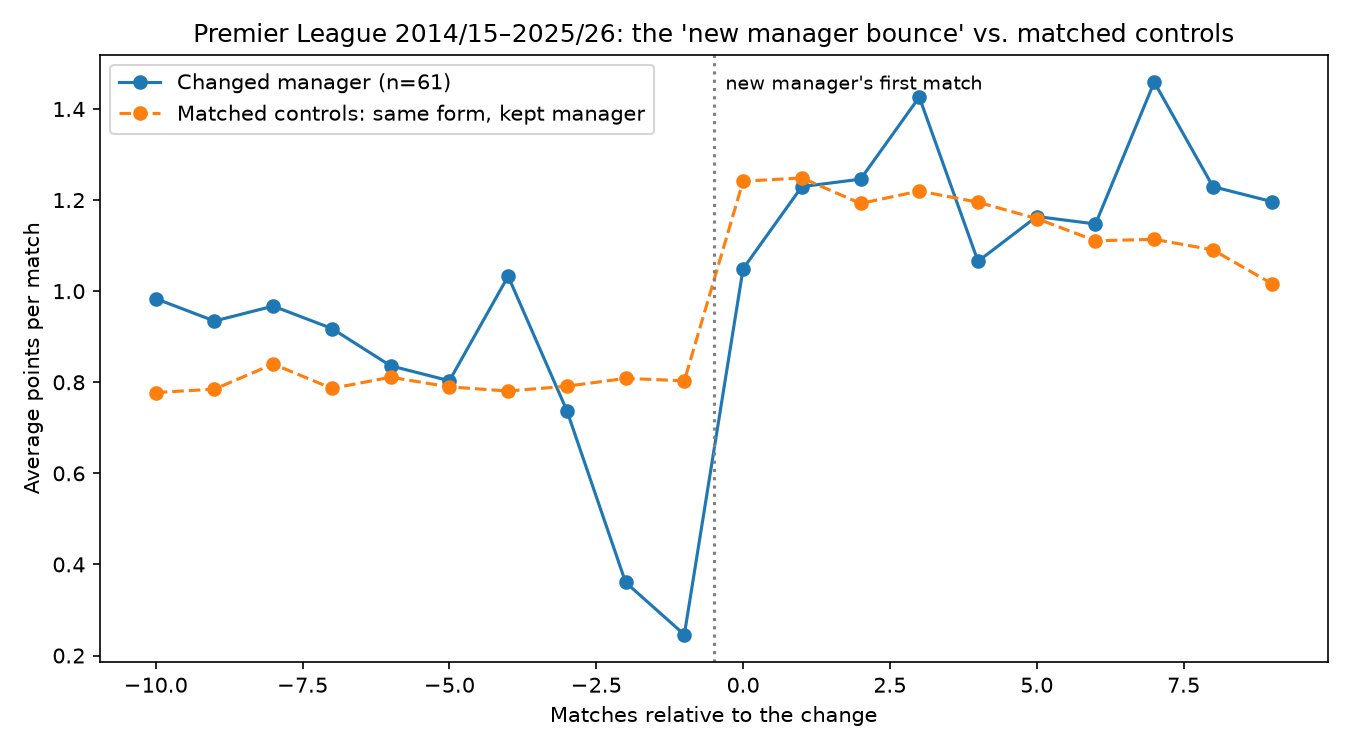
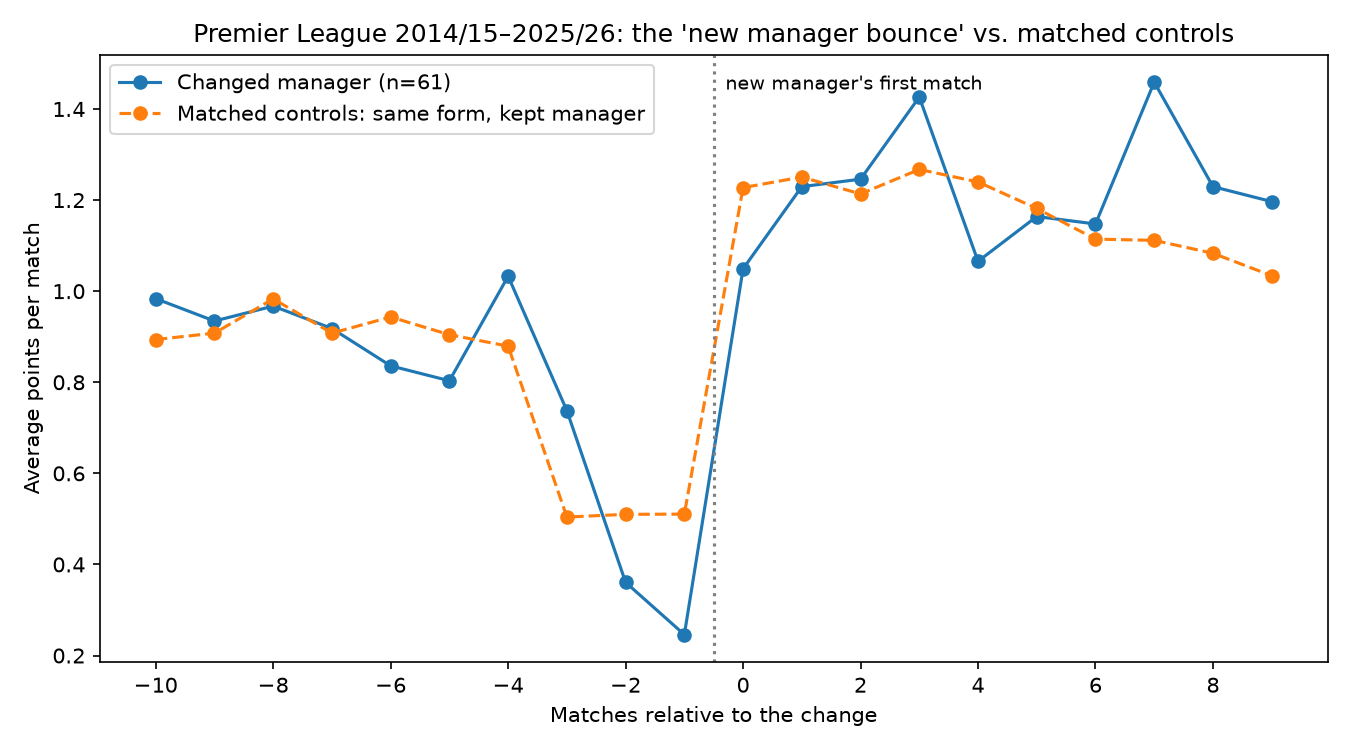
Manager bounce v2: also match on recent 3-game form; effect +0.06 PPG (CI includes 0)

diff --git a/src/analysis/manager_bounce.py b/src/analysis/manager_bounce.py
@@ -10,7 +10,8 @@ Method: event study with matched controls
   3. Controls: any point in a season where a team kept one manager for WINDOW
      matches either side.
   4. Each event is compared with controls whose "before" PPG was within
-     MATCH_TOLERANCE of the event's (equally bad form, no change).
+     MATCH_TOLERANCE AND whose last-RECENT-match PPG was within RECENT_TOLERANCE
+     (equally bad form, including a similar recent slump, but no change).
   5. Effect = treated change - matched-control change, with a 95% CI.
 
 Outputs: reports/results/bounce_events.csv
@@ -32,6 +33,8 @@ FIGURES = Path("reports/figures")
 
 WINDOW = 10
 MATCH_TOLERANCE = 0.10
+RECENT = 3                  # also match on form over the last RECENT matches
+RECENT_TOLERANCE = 0.34     # within 1 point over those 3 matches
 TYPES = ["permanent", "caretaker", "caretaker_made_permanent"]
 METRICS = {
     "points": "Points per game",
@@ -82,7 +85,8 @@ def add_windows(p: pd.DataFrame) -> pd.DataFrame:
         roll = g[m].transform(lambda s: s.rolling(WINDOW).mean())
         p[f"{m}_before"] = roll.groupby(by).shift(1)
         p[f"{m}_after"] = roll.groupby(by).shift(-(WINDOW - 1))
-
+    recent = g["points"].transform(lambda s: s.rolling(RECENT).mean())
+    p["points_recent"] = recent.groupby(by).shift(1)          # PPG over the last RECENT matches before k
     p["spell_prev"] = g["spell_id"].shift(1)                  # spell of the previous match
     p["spell_window_start"] = g["spell_id"].shift(WINDOW)      # spell at k-W
     p["spell_window_end"] = g["spell_id"].shift(-(WINDOW - 1)) # spell at k+W-1
@@ -102,8 +106,10 @@ def paths(panel: pd.DataFrame, anchors: pd.DataFrame) -> pd.DataFrame:
 def match_controls(events, controls, control_paths):
     rows, event_ctrl_paths = [], []
     ctrl_before = controls["points_before"].to_numpy()
+    ctrl_recent = controls["points_recent"].to_numpy()
     for i, ev in events.iterrows():
-        mask = np.abs(ctrl_before - ev["points_before"]) <= MATCH_TOLERANCE
+        mask = ((np.abs(ctrl_before - ev["points_before"]) <= MATCH_TOLERANCE) &
+                (np.abs(ctrl_recent - ev["points_recent"]) <= RECENT_TOLERANCE))
         c = controls[mask]
         row = {"n_controls": int(mask.sum())}
         for m in METRICS:
@@ -144,6 +150,7 @@ def plot(treated_paths, control_paths, n_events) -> Path:
     ax.axvline(-0.5, color="grey", linestyle=":")
     ax.text(-0.3, ax.get_ylim()[1] * 0.97, "new manager's first match", fontsize=9, va="top")
     ax.set_xlabel("Matches relative to the change")
+    ax.set_xticks(range(-WINDOW, WINDOW, 2))
     ax.set_ylabel("Average points per match")
     ax.set_title("Premier League 2014/15–2025/26: the 'new manager bounce' vs. matched controls")
     ax.legend()
